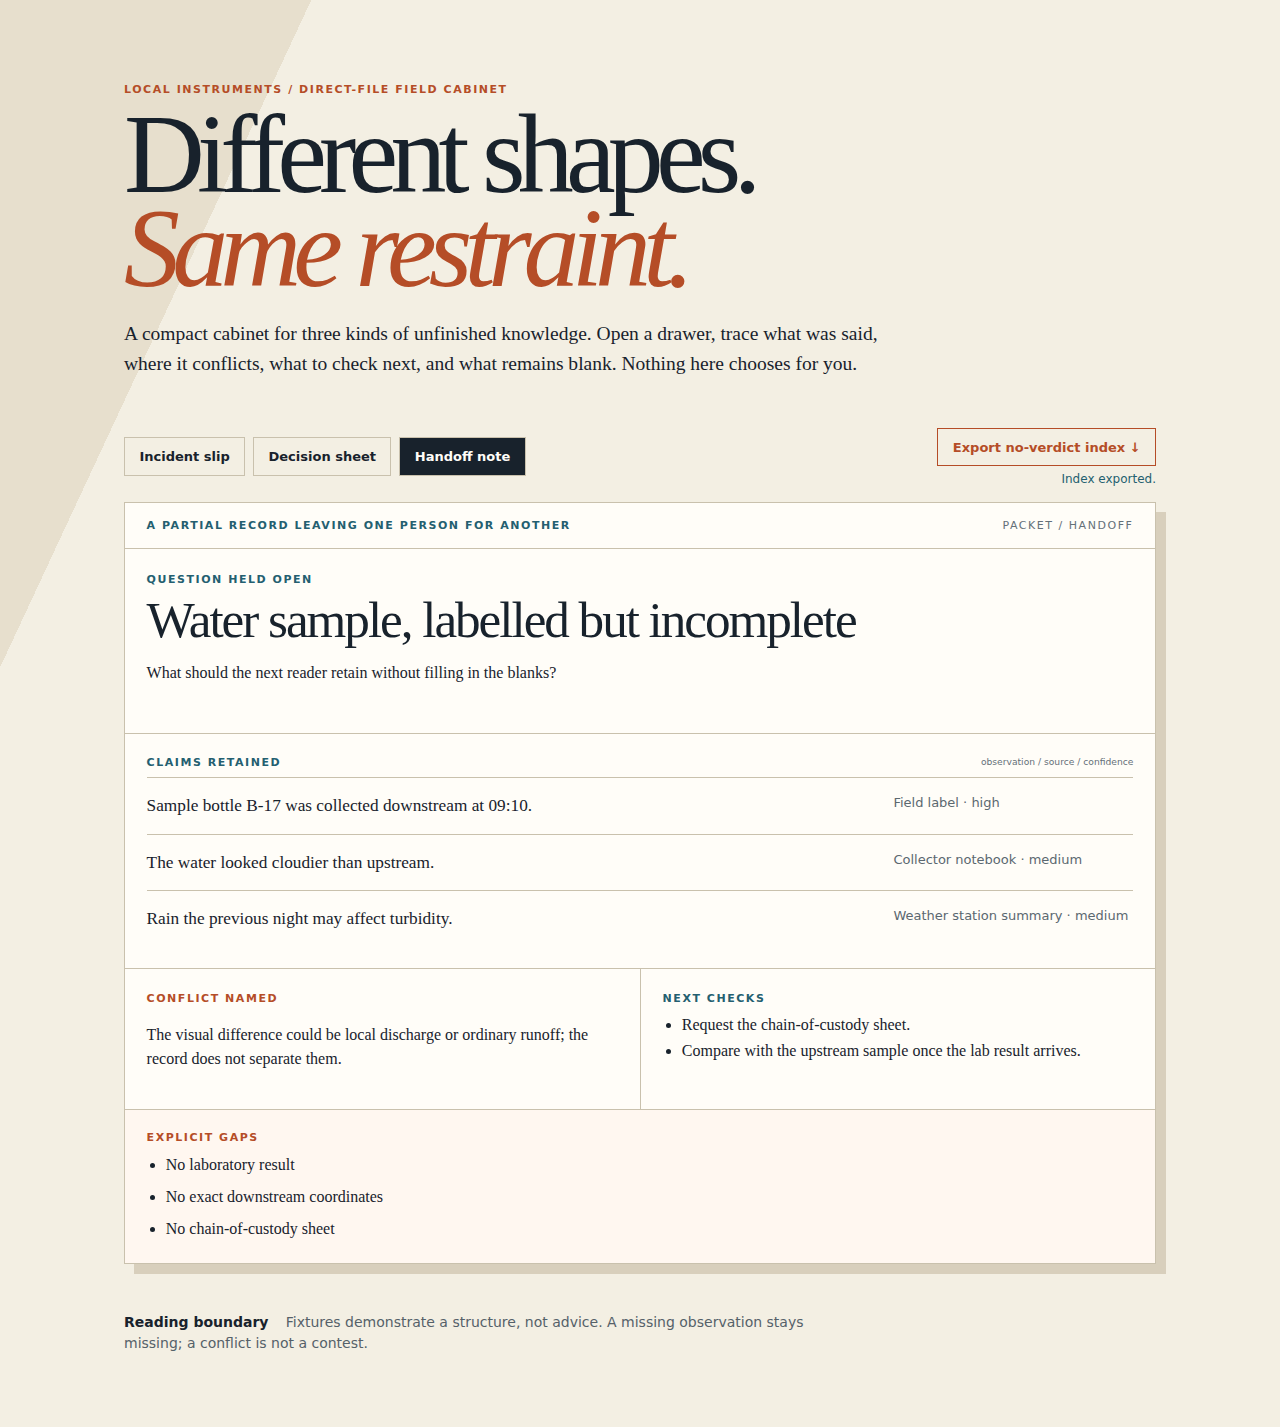
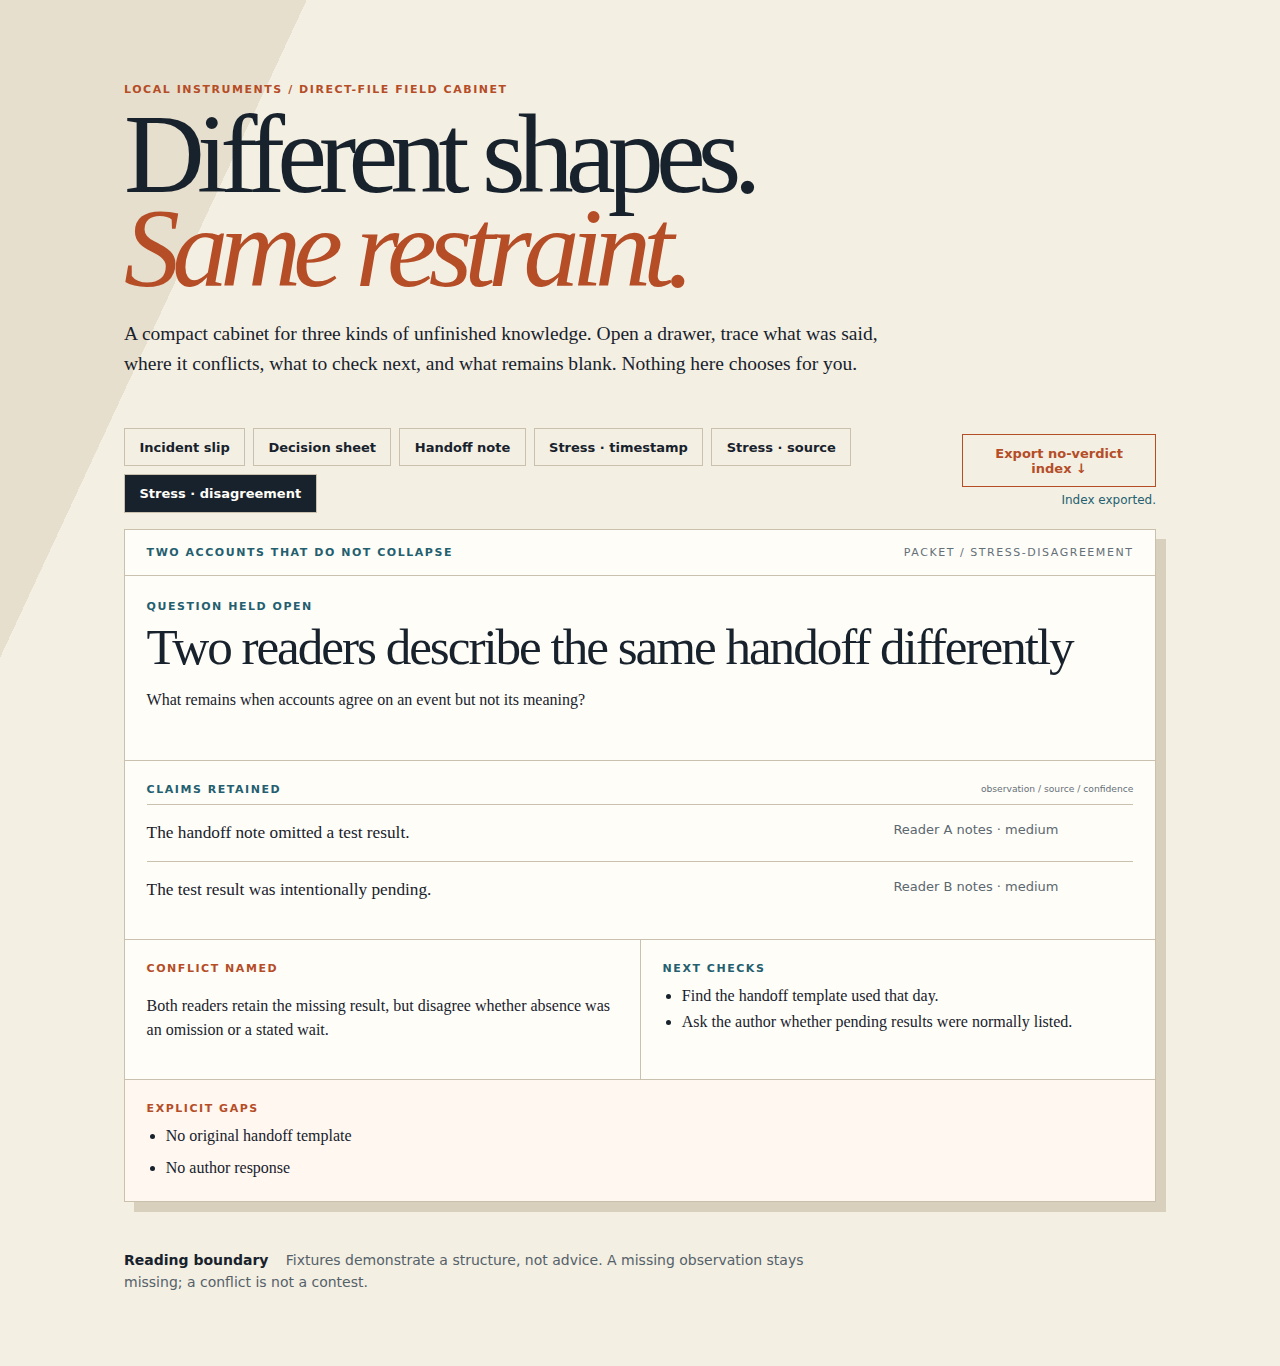
Add uncertainty packet boundary stress fixtures

diff --git a/uncertainty-packet-field-cabinet/packets.js b/uncertainty-packet-field-cabinet/packets.js
@@ -1,5 +1,8 @@
 window.PACKETS=[
 {id:'incident',tab:'Incident slip',type:'A moment that needs reconstruction',title:'The hallway went dark at 18:42',question:'What can the building team establish before calling this a power failure?',claims:[['The third-floor lights went out together.','Front-desk timestamp · high'],['The lift continued running.','Resident voice note · medium'],['A breaker may have tripped during cleaning.','Cleaner recollection · low']],conflict:'The simultaneous lights suggest a shared circuit; the working lift makes a whole-building outage less likely.',nextChecks:['Photograph the third-floor panel before resetting anything.','Compare lift and lighting circuit labels with the electrician.'],gaps:['No panel reading at 18:42','No CCTV view of the corridor']},
 {id:'decision',tab:'Decision sheet',type:'A choice with competing costs',title:'Keep the night delivery window?',question:'What is still unknown before the co-op changes the delivery rule?',claims:[['Two late deliveries woke residents last month.','Concierge log · medium'],['The night slot avoids daytime loading congestion.','Driver notes · medium'],['One retailer says a daytime slot risks spoiled stock.','Retailer email · low']],conflict:'Quieter nights and workable deliveries pull in different directions; neither observation tells us the cost of a changed window.',nextChecks:['Ask each retailer for a one-week daytime trial estimate.','Record loading congestion for five weekdays.'],gaps:['No resident sleep survey','No spoilage record','No comparison-week loading count']},
-{id:'handoff',tab:'Handoff note',type:'A partial record leaving one person for another',title:'Water sample, labelled but incomplete',question:'What should the next reader retain without filling in the blanks?',claims:[['Sample bottle B-17 was collected downstream at 09:10.','Field label · high'],['The water looked cloudier than upstream.','Collector notebook · medium'],['Rain the previous night may affect turbidity.','Weather station summary · medium']],conflict:'The visual difference could be local discharge or ordinary runoff; the record does not separate them.',nextChecks:['Request the chain-of-custody sheet.','Compare with the upstream sample once the lab result arrives.'],gaps:['No laboratory result','No exact downstream coordinates','No chain-of-custody sheet']}
+{id:'handoff',tab:'Handoff note',type:'A partial record leaving one person for another',title:'Water sample, labelled but incomplete',question:'What should the next reader retain without filling in the blanks?',claims:[['Sample bottle B-17 was collected downstream at 09:10.','Field label · high'],['The water looked cloudier than upstream.','Collector notebook · medium'],['Rain the previous night may affect turbidity.','Weather station summary · medium']],conflict:'The visual difference could be local discharge or ordinary runoff; the record does not separate them.',nextChecks:['Request the chain-of-custody sheet.','Compare with the upstream sample once the lab result arrives.'],gaps:['No laboratory result','No exact downstream coordinates','No chain-of-custody sheet']},
+{id:'stress-timestamp',tab:'Stress · timestamp',type:'A record with a disputed clock',title:'The alert arrived before the log started',question:'What survives when the claimed order cannot be made coherent?',claims:[['An operator received an alert at 03:14.','Operator note · medium'],['The service log begins at 03:17.','Export fragment · high']],conflict:'The alert may predate the retained log, or the operator clock may differ; the record cannot choose between them.',nextChecks:['Request the raw alert delivery headers.','Compare the operator device clock with the logging host.'],gaps:['No raw alert payload','No clock-offset record']},
+{id:'stress-source',tab:'Stress · source',type:'A claim whose source is named but absent',title:'A maintenance note cites a missing photograph',question:'How can a reader retain a claim when the supporting item did not travel with it?',claims:[['The valve handle was photographed in the closed position.','Maintenance note citing photo · low'],['The room was dry at the next inspection.','Inspection log · medium']],conflict:'A closed handle could fit a deliberate shutdown or an earlier interruption; the absent photograph cannot resolve it.',nextChecks:['Locate the cited photograph or its upload record.','Ask whether the handle position was changed before inspection.'],gaps:['No photograph attachment','No upload timestamp','No account of intervening access']},
+{id:'stress-disagreement',tab:'Stress · disagreement',type:'Two accounts that do not collapse',title:'Two readers describe the same handoff differently',question:'What remains when accounts agree on an event but not its meaning?',claims:[['The handoff note omitted a test result.','Reader A notes · medium'],['The test result was intentionally pending.','Reader B notes · medium']],conflict:'Both readers retain the missing result, but disagree whether absence was an omission or a stated wait.',nextChecks:['Find the handoff template used that day.','Ask the author whether pending results were normally listed.'],gaps:['No original handoff template','No author response']}
 ];
